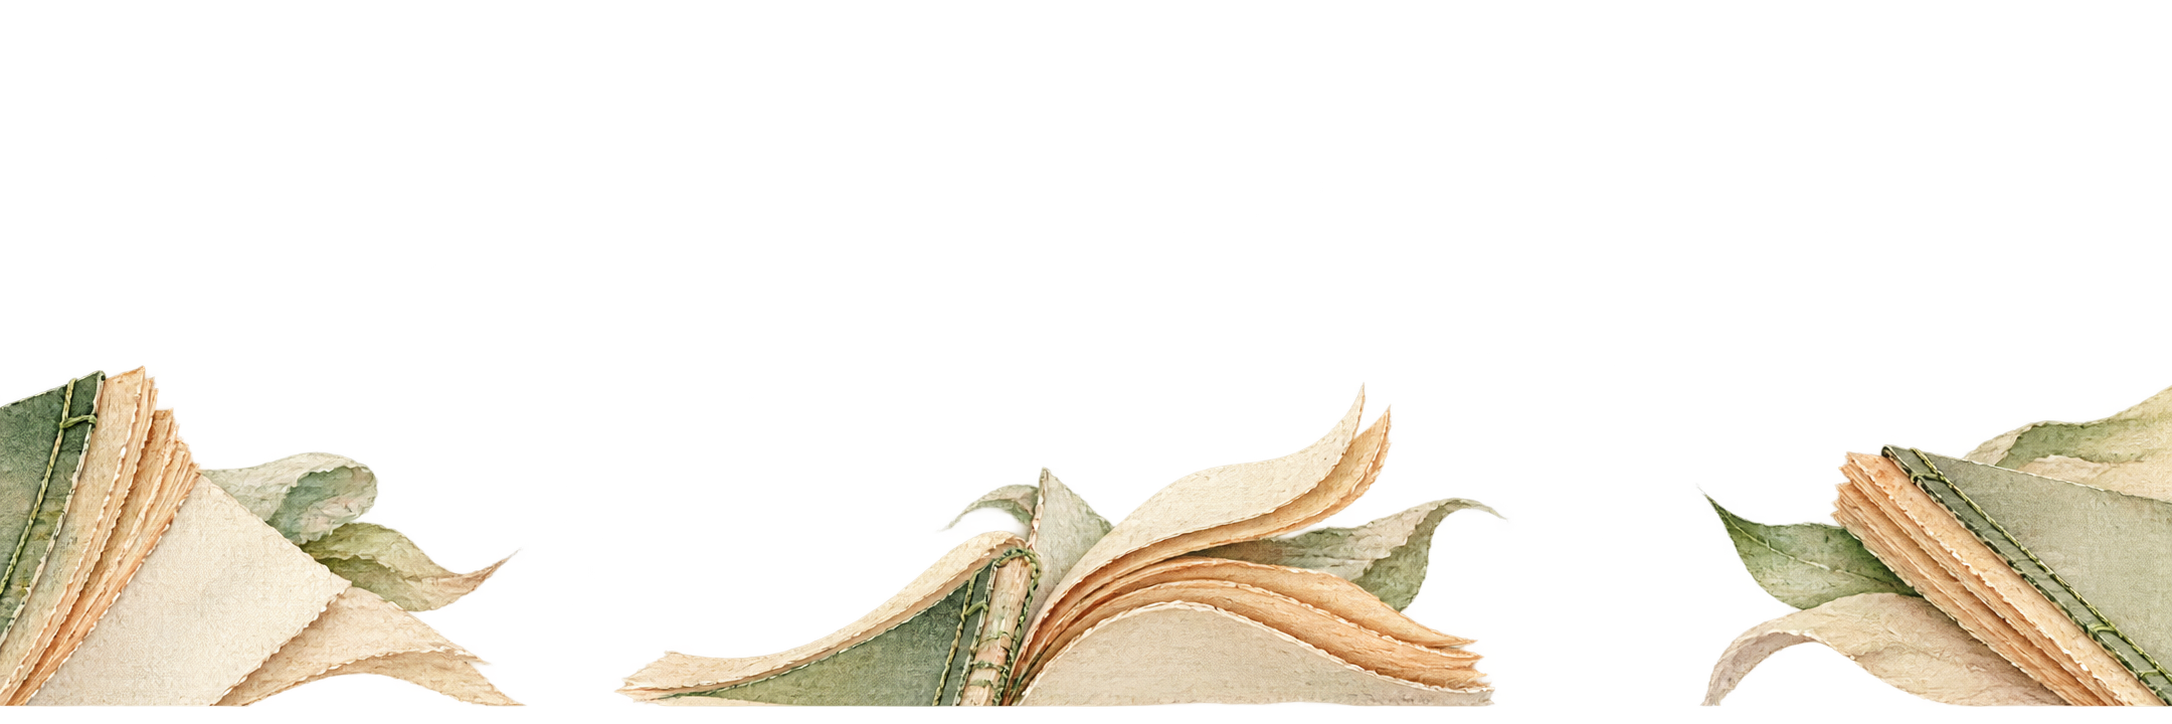
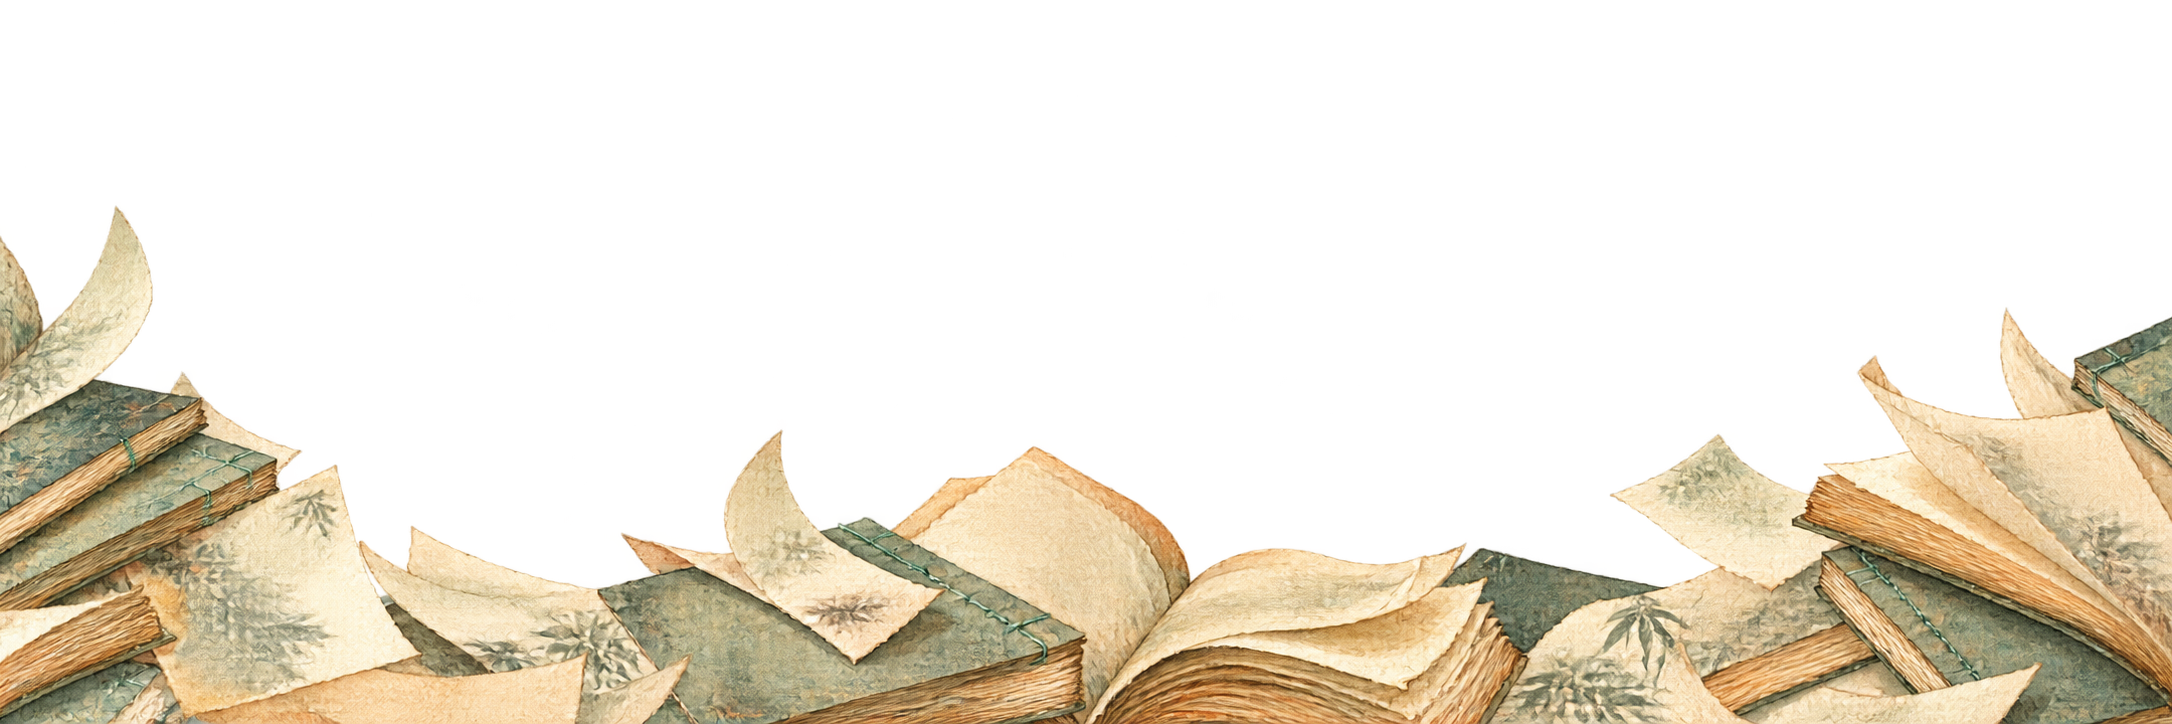
style: overlap switcher book edges

diff --git a/design-handoff/poster-rollup-2026-08-29/HANDOFF.md b/design-handoff/poster-rollup-2026-08-29/HANDOFF.md
@@ -139,7 +139,7 @@
 
 `story-switcher-curved-branch.png` 是底部三入口专用的透明弧形水彩树枝压缩版，印刷母版为 `assets/masters/story-switcher-curved-branch-master.png`。树枝负责连接三枚图案，不得再叠加顶部横线、当前页下划线或规则矩形 Tab Bar；中间 LOGO 只保留一层很轻的柔和阴影。
 
-`story-switcher-book-edges.png` 是底部三入口背后的透明手绘古籍页边装饰，印刷母版为 `assets/masters/story-switcher-book-edges-master.png`。它仅以低对比度衬托三枚入口，须置于树枝、小鸟与 LOGO 下层；不能作为白色卡片、规则边框或文字底板。入口文字以原生文字逐字排成浅弧，沿各自图案的下缘走，须保持较大、较粗且清晰易读。
+`story-switcher-book-edges.png` 是底部三入口背后的透明手绘古籍页边装饰，印刷母版为 `assets/masters/story-switcher-book-edges-master.png`。书页组横向相互压叠，并在左右边缘出血；它仅以低对比度衬托三枚入口，须置于树枝、小鸟与 LOGO 下层；不能作为白色卡片、规则边框或文字底板。入口文字以原生文字逐字排成浅弧，沿各自图案的下缘走，须保持较大、较粗且清晰易读。
 
 “开始聊聊”底部弹层新增两枚透明古籍按钮：`capture-note-paper.png` 是轻薄散页，对应“随手记”；`capture-memoir-book.png` 是交错线装册，对应“回忆录”。两张图都不烘焙文字，避免小尺寸中文发糊。
 
